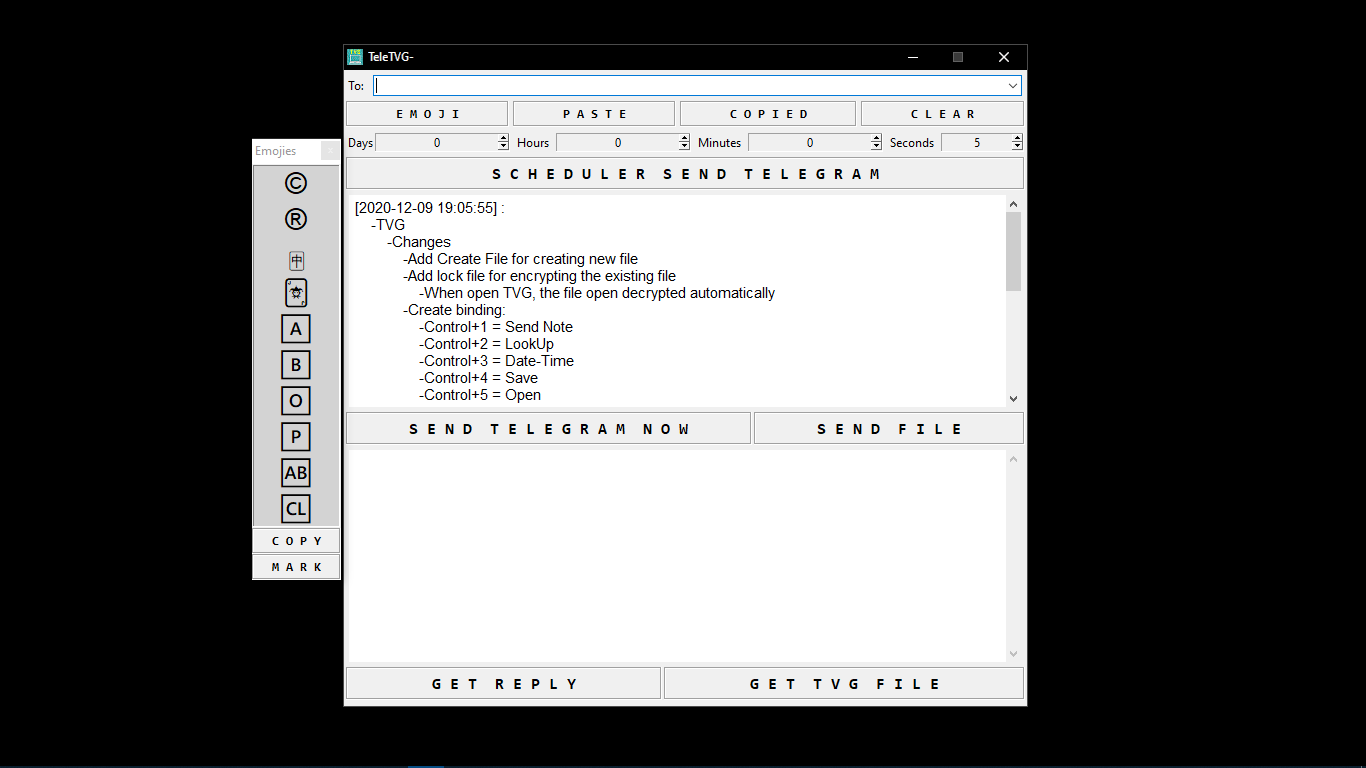
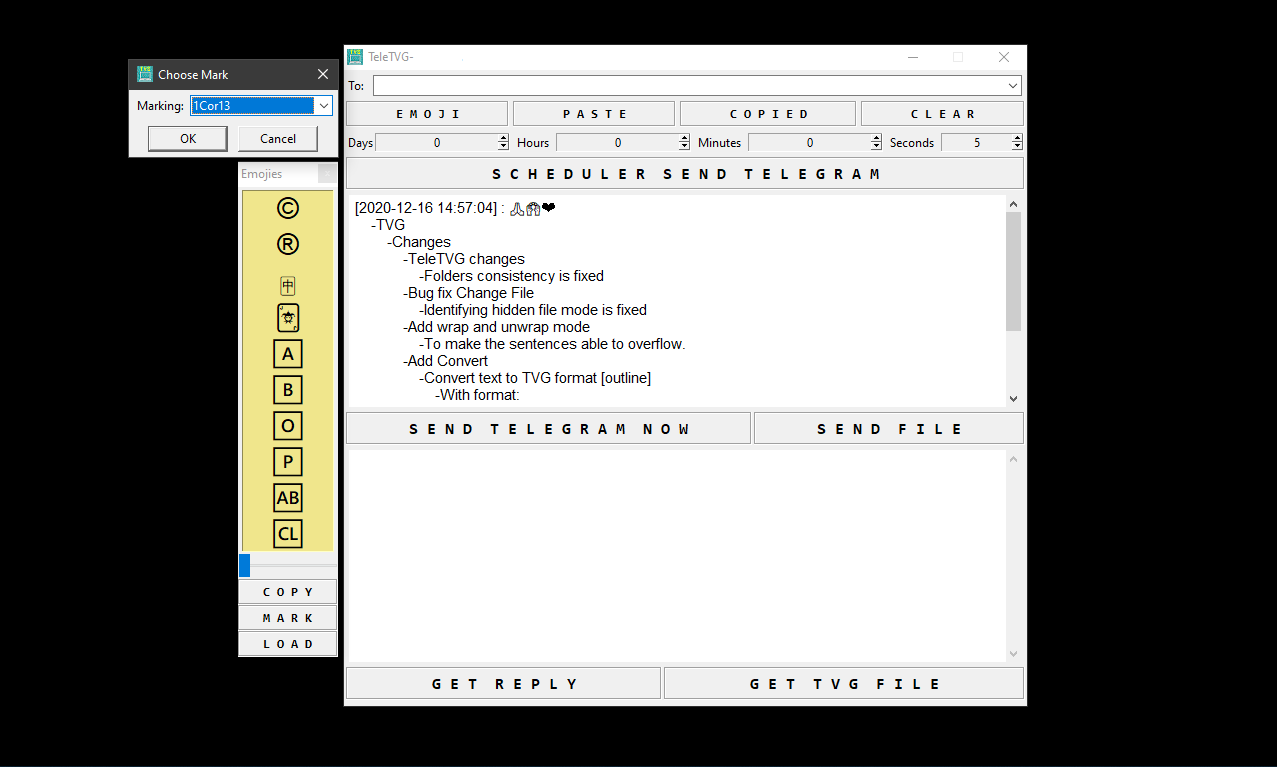
❤Many updates and changes.

Changed region(s): [[0.0916, 0.06, 0.8246, 0.9296], [0.0, 0.9896, 1.0, 1.0]]

diff --git a/README.md b/README.md
@@ -12,7 +12,26 @@
     * **Please install first Telethon https://github.com/LonamiWebs/Telethon**
 >* **Please get ProtectData for Lock File function https://github.com/kakkarja/PTD**
 >* **Please get CreatePassword for encrypting telegram apis https://github.com/kakkarja/CP**
-
+### Changes:
+* **TVG has evolved to more than just taking simple outline note.**
+    * **Now can convert a simple note to outline note.**
+        * **FORMAT:**
+            * **Sample => as "parent" [first-line]**  
+              **This is the format of child. Will be split to two. => as child1 [split by ". "]**
+    * **You can use CPP function to move or even clone rows to other row within existing rows.**
+    * **No folding child like other outline, but..**
+        * **Can hide parents and its childs.**
+            * **This function better than folding, as the outline that you want to save as pdf or even send note will only be the unhide one.**
+    * **Now combine with Telethon wrapper for Telegram.** 
+        * **Send note:**
+            * **With emojies.**
+            * **Scheduler**
+            * **Send file [only the TVG outline note]**
+            * **Get file [any file except pictures and stickers]**
+            * **Multi accounts**
+        * **You have to create Telegram api "https://core.telegram.org/api" in order to use this incredible function.**
+    * **And many more.. :joy:**
+                
 ![TVG](/TVG.png)
 ![TeleTVG](/TeleTVG.png)
 ![SavedPDF](/SavedPDF.png)
